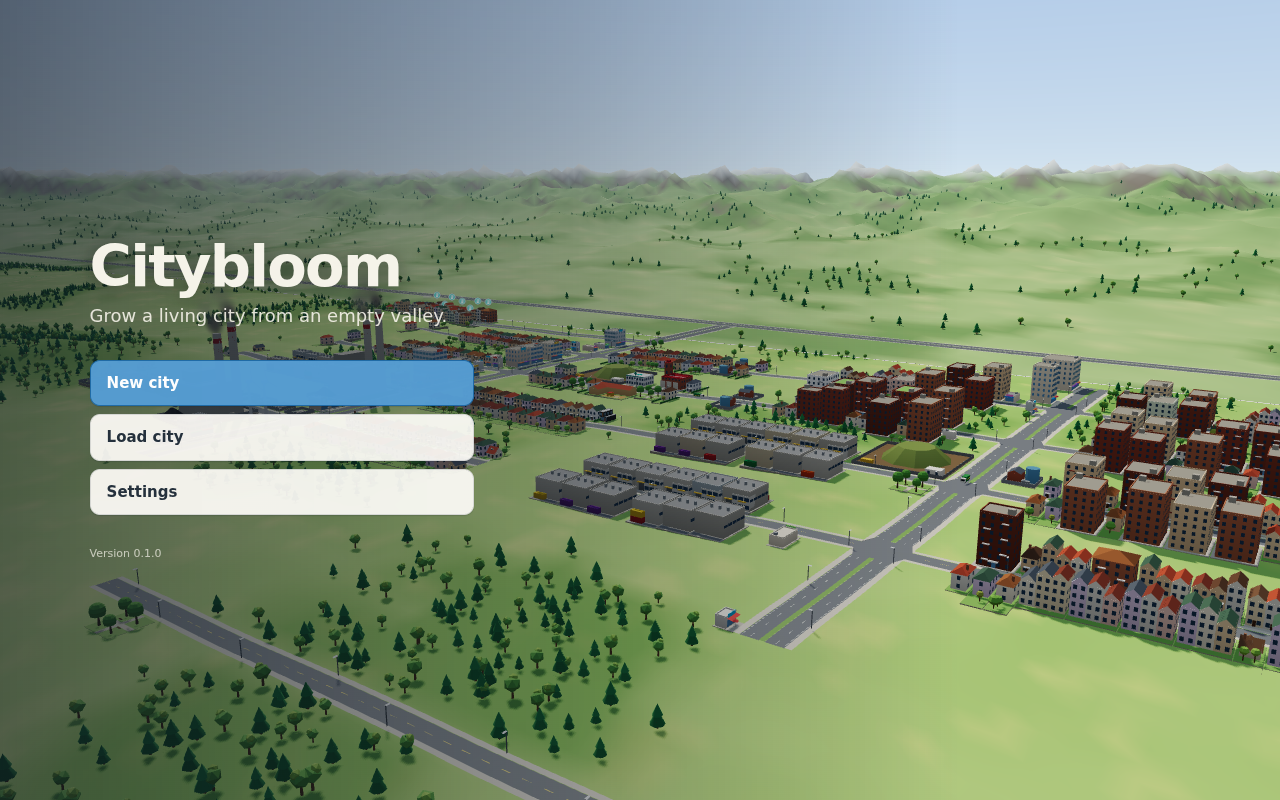
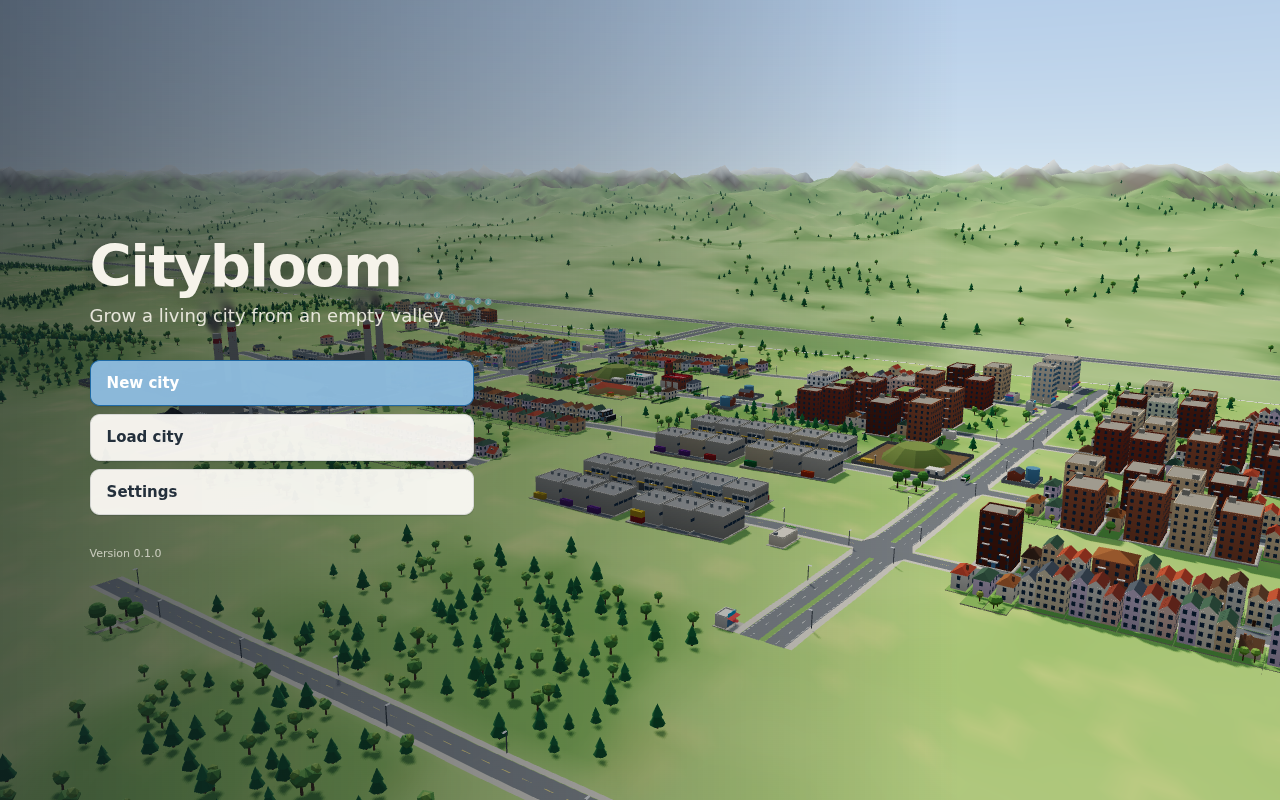
M12: playthrough frames the site clear of the UI; PROGRESS summary and ideas
The playthrough's street drags ended under the road-options bar, so the mouse-up hit the UI; it
now frames the town site like a player would and checks each point it clicks is on the map.
PROGRESS.md gets the summary of the game's state and ideas for what's next; the SPEC review lists
the playthrough and README.

Claude-Session: https://claude.ai/code/session_01XW8DbmKrRef35JRd9CiaPb

Changed region(s): [[0.0625, 0.4375, 0.375, 0.5312]]

diff --git a/e2e/playthrough.spec.ts b/e2e/playthrough.spec.ts
@@ -17,14 +17,24 @@ async function shot(page: Page, name: string): Promise<void> {
   await page.screenshot({ path: `docs/screenshots/m12-play-${name}.png` });
 }
 
-async function at(page: Page, x: number, z: number) {
-  return page.evaluate(([x, z]) => window.__game!.worldToScreen(x!, z!), [x, z]);
+/** Screen position of a ground point, and whether it's on the map (not under a panel or toolbar). */
+async function screenAt(page: Page, x: number, z: number) {
+  const p = await page.evaluate(([x, z]) => window.__game!.worldToScreen(x!, z!), [x, z]);
+  const hit = await page.evaluate(([sx, sy]) => document.elementFromPoint(sx!, sy!)?.id ?? '', [p.x, p.y]);
+  return { ...p, onMap: hit === 'scene' };
 }
 
-/** Look down over the town site, as a player would before building. */
+/** Screen position of a ground point that must be on the map. */
+async function at(page: Page, x: number, z: number) {
+  const p = await screenAt(page, x, z);
+  expect(p.onMap, `(${x}, ${z}) is at screen ${Math.round(p.x)},${Math.round(p.y)}, under the UI`).toBe(true);
+  return p;
+}
+
+/** Look down over the town site, as a player would before building (clear of the toolbars). */
 async function topDown(page: Page, cz: number): Promise<void> {
   await page.evaluate(
-    (cz) => window.__game!.setCamera({ x: 264, z: cz, distance: 560, yaw: 0, tilt: 0.55 }),
+    (cz) => window.__game!.setCamera({ x: 290, z: cz + 50, distance: 700, yaw: 0, tilt: 0.55 }),
     cz,
   );
   await page.evaluate(() => window.__game!.waitFrames(2));
@@ -39,15 +49,23 @@ async function closeTips(page: Page, seen: string[]): Promise<void> {
   }
 }
 
-async function drag(page: Page, points: [number, number][]): Promise<void> {
+/** Drag the road tool along points; returns why not if nothing was built. */
+async function drag(page: Page, points: [number, number][]): Promise<string | null> {
+  const before = (await state(page)).segments;
   let p = await at(page, points[0]![0], points[0]![1]);
   await page.mouse.move(p.x, p.y);
   await page.mouse.down();
+  let hint = '';
   for (const [x, z] of points.slice(1)) {
     p = await at(page, x, z);
     await page.mouse.move(p.x, p.y, { steps: 5 });
+    const h = page.getByTestId('tool-hint');
+    if (await h.isVisible()) hint = await h.innerText();
   }
   await page.mouse.up();
+  await page.waitForTimeout(300);
+  if ((await state(page)).segments > before) return null;
+  return `${JSON.stringify(points)} at screen ${Math.round(p.x)},${Math.round(p.y)}: ${hint || 'no hint'}`;
 }
 
 /** Place a building from a toolbar menu, trying spots beside the roads until one takes it. */
@@ -59,7 +77,8 @@ async function place(page: Page, category: string, def: string, spots: [number, 
   if (await button.isDisabled()) return false;
   await button.click();
   for (const [x, z] of spots) {
-    const p = await at(page, x, z);
+    const p = await screenAt(page, x, z);
+    if (!p.onMap) continue;
     await page.mouse.move(p.x, p.y, { steps: 3 });
     await page.waitForTimeout(150);
     await page.mouse.click(p.x, p.y);
@@ -112,18 +131,25 @@ test('playthrough: a first city from the main menu to a thriving town @playthrou
   await topDown(page, cz);
   await page.getByTestId('tool-road').click();
   await page.getByTestId('road-avenue').click();
-  await drag(page, [
+  const failed: string[] = [];
+  const road = async (points: [number, number][]) => {
+    const why = await drag(page, points);
+    if (why) failed.push(why);
+  };
+  await road([
     [24, cz],
     [264, cz],
     [504, cz],
   ]);
   await page.getByTestId('road-street').click();
   for (const x of [120, 216, 312, 408])
-    await drag(page, [
+    await road([
       [x, cz - 160],
       [x, cz],
       [x, cz + 160],
     ]);
+  if (failed.length) await page.screenshot({ path: 'test-results/playthrough-roads.png' });
+  expect(failed, failed.join('\n')).toEqual([]);
   const s1 = await state(page);
   expect(s1.segments).toBeGreaterThanOrEqual(s0.segments + 13);
   log(`roads: ${s1.segments - s0.segments} segments for $${s0.treasury - s1.treasury}`);
@@ -204,6 +230,7 @@ test('playthrough: a first city from the main menu to a thriving town @playthrou
 
   // The first few months; keep the utilities ahead of demand, as the advisors ask.
   const keepUp = async (s: State) => {
+    await topDown(page, cz);
     const u = s.utilities;
     if (u.power.supply < u.power.demand * 1.2 + 10)
       log(

diff --git a/PROGRESS.md b/PROGRESS.md
@@ -14,28 +14,57 @@
 - [x] M11 Game shell
 - [ ] M12 Balance, performance and polish
 
+## Summary
+Citybloom is a complete, playable city builder in the browser. From the main menu (over a living
+demo town) a player founds a city on one of four seeded maps with a difficulty, sandbox and
+disasters option and an optional tutorial, then lays straight, curved and free-form roads and
+bridges off the highway, zones homes, shops and industry, and keeps the city supplied with power
+(five plant types), water and sewage, garbage collection, fire, police, health, schools and parks.
+Residents are aggregated per building but travel for real: rush-hour commutes congest roads, buses
+take cars off them, service vehicles drive to incidents, and any car or walker can be clicked. Air
+pollution drifts on the wind, sickness and education follow services, land value shapes wealth,
+and the budget books every dollar (taxes by zone and wealth, funding, loans, policies). Milestones
+unlock buildings, landmarks and three specialisations (tourism, trade, technology) plus ore and
+oil. Fires, earthquakes, tornadoes, floods and meteors strike and the city rebuilds. Saves are
+versioned and compressed with autosave, slots and file export. Everything runs from a deterministic
+sim in a Web Worker: ~0.7 ms per tick at 100k residents, with 288 draw calls at the city overview.
+Checked by 137 unit and scenario tests, 15 UI tests and a 10-minute soak
+(`docs/SPEC_REVIEW.md` maps every SPEC item to where it's done).
+
+## Ideas for what's next
+1. **Real-hardware pass** (the list under "To check on the Mac"): frame rate at 100k, and
+   per-building LOD if 2.5M triangles at the overview is too much for the GPU.
+2. **Trams and trains**: the transit system (lines, stops, riders) and road graph are ready for
+   rail lines with their own right of way; a rail freight link would feed the trade specialisation.
+3. **Visible traffic that queues**: car-following and junction yielding for the drawn cars (the
+   sim's congestion already works); tourists driving in from the highway.
+4. **Neighbouring cities** that trade power, water and garbage and share the highway's demand.
+5. **Weather and seasons**: snow on roofs, rain lowering park use, heating demand in winter.
+6. **More specialisations** (education hub, gambling/entertainment, electronics) using the same
+   building + economy pattern as M10.
+7. **Custom glTF models** through the existing asset registry (`src/render/assets/registry.ts`).
+8. **Balance**: commercial demand runs a little low in small towns and mature cities run a large
+   surplus; a second tuning pass once real players have tried it.
+
 ## In progress
-M12 Balance, performance and polish. Done: balance tool and economy retune; the 100k-resident tick
-budget; the render budget at 100k (bigger chunks, tree LOD, icon fade); the soak test (10 min at top
-speed, zero errors) and 20-year invariant runs; the SPEC review (`docs/SPEC_REVIEW.md`); the main
-menu's demo town; README.
+M12 Balance, performance and polish: final playthrough (`npm run playthrough`) and a full e2e run
+on terrain v2.
 
 ## Next tasks
-1. Run the final playthrough (`npm run playthrough`), review its screenshots and fix what it finds.
-2. Check in a browser that an unreadable save falls back to a fresh map (worker `loadFailed`).
-3. Summary and ideas for what's next at the top of this file; tick M12.
+1. Review the playthrough screenshots; fix anything they show.
+2. Full e2e on the final build; tick M12.
 
 ## Known issues
-- Mature cities run a big surplus (≈ +$30k/month at 15k residents with 6 % taxes); intended as money for landmarks and big projects, but worth another look once the 100k benchmark exists.
+- Mature cities run a big surplus (≈ +$35k/month at 18k residents with 6 % taxes); intended as money for landmarks and big projects.
 - Homes without power or water still empty after about two days; the balance runs show a careful player never hits this, so no grace period was added.
 - Visible cars and walkers follow trip samples from the last assignment round, so for up to two game hours after a road closes some still drive along it; commuters, services and utilities reroute at once.
 - Buildings along a road closed for repairs lose power and water until it reopens (lines run under the roads); with 6–24 h repairs this rarely empties them, but a big quake still costs a town a lot.
 - Visible cars don't queue or yield at junctions; they overlap when paths cross. Speeds do follow congestion.
 - Bus riders' door-to-door time includes walking and waiting, so a bus line mainly helps by taking cars off jammed roads (≈10–20 % less traffic in the test town), not by being faster than driving.
-- Towns without services still lose many residents over time (approval ≈ 50 %); fire outbreaks are now contained but crime and unanswered emergencies pile up. Part of the M12 balance pass.
-- Commercial demand runs slightly negative in small towns (0.12 shop jobs per resident); revisit in balance.
+- Towns without services stagnate and slowly lose residents (the neglectful balance run); that's intended, but it could be clearer to a new player why.
+- Commercial demand runs slightly negative once a town has zoned a strip of shops (the careful balance player's commercial zones stay part-empty); fine for play, worth a second look.
 - Visitors (M10) are counted, spend money and shop, but don't drive through the traffic model yet.
-- Growth all the way to 100k residents is only exercised by the M12 large-city benchmark so far; M10 tests the unlock table and each specialisation on the test town.
+- Growth to 100k residents is exercised by the large-city benchmark (a sandbox grid); a scripted careful player tops out around 18k because its district plan runs out of land.
 - Tree count is high in forests (~25k in-map); LOD switches to low-poly beyond 750 m.
 
 ## Performance (M12)

diff --git a/docs/SPEC_REVIEW.md b/docs/SPEC_REVIEW.md
@@ -34,7 +34,7 @@ screenshots are in `docs/screenshots/`. Anything not done is explained at the en
 ## 5. Game design
 | Area | Status |
 |---|---|
-| World: seeded terrain, hills, river/coast/lakes, forests, groundwater/ore/oil on data maps; 2×2 km with scenery; highway | Done (M0, M4, M10) |
+| World: seeded terrain, hills, river/coast/lakes, forests, groundwater/ore/oil on data maps; 2×2 km with scenery; highway | Done (M0, M4, M10); every seed has a gentle start area by the highway (M12, terrain v2) |
 | New-game options: seed/preset, difficulty, sandbox, disasters | Done (M11): new-city screen |
 | Roads: dirt/street/avenue + boulevard, upgrades keep buildings, drag drawing with curves, snapping, intersections, cost preview, invalid state, slope limits, bridges, bulldozer with refunds | Done (M1, M6); e2e m1, m6 |
 | Zoning and growth: cells on both sides, RCI painting, density by road and milestones, wealth by land value, construction, upgrades, decline, abandonment, RCI bars with reasons | Done (M1, M2, M10); e2e m1, m2 |
@@ -70,6 +70,8 @@ screenshots are in `docs/screenshots/`. Anything not done is explained at the en
 | Performance benchmark | Done: `scripts/bench.ts` (and `--big` for ~100k) |
 | Balance tool: careful / greedy / neglectful for 20+ years | Done: `scripts/balance.ts` |
 | Long soak with zero console errors | Done: `npm run soak` (10 minutes of top-speed play with disasters, panels, maps, saves) |
+| §9 final playthrough via tests and screenshots | Done: `npm run playthrough` (a first city through the real UI, menu to year two; `docs/screenshots/m12-play-*.png`) |
+| §9 README (run, build, play); summary and ideas at the top of PROGRESS.md | Done |
 
 ## Not done, and why
 - **Trams and trains** (§5 transport, "if time allows") and the §9 extras (neighbouring cities, weather
